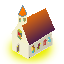
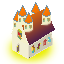
shots

Changed region(s): [[0.375, 0.0312, 0.625, 0.5312], [0.625, 0.0625, 0.8125, 0.4062], [0.1875, 0.1562, 0.3125, 0.4688]]

diff --git a/Ritual/World.cpp b/Ritual/World.cpp
@@ -38,8 +38,8 @@ World::World(SDL_Renderer *renderer, string filename)
 	AddObject(renderer, 33, "assets/tile_end.png");
 
 	AddObject(renderer, 50, "assets/tower3.png");
-	AddObject(renderer, 51, "assets/tower2.png");
-	AddObject(renderer, 52, "assets/tower1.png");
+	AddObject(renderer, 51, "assets/tower1.png");
+	AddObject(renderer, 52, "assets/tower2.png");
 	AddObject(renderer, 53, "assets/tower4.png");
 
 

diff --git a/Ritual/Scrub.cpp b/Ritual/Scrub.cpp
@@ -88,7 +88,7 @@ bool Scrub::Event(SDL_Event &event)
 		SetSlider(float(event.motion.x - mRect.x) / float(mRect.w));
 
 
-		mWorld->myAudioManager.SetVolume(mWorld->mScrubSoundID, 0.5f);
+		mWorld->myAudioManager.SetVolume(mWorld->mScrubSoundID, 0.3f);
 
 	}
 
